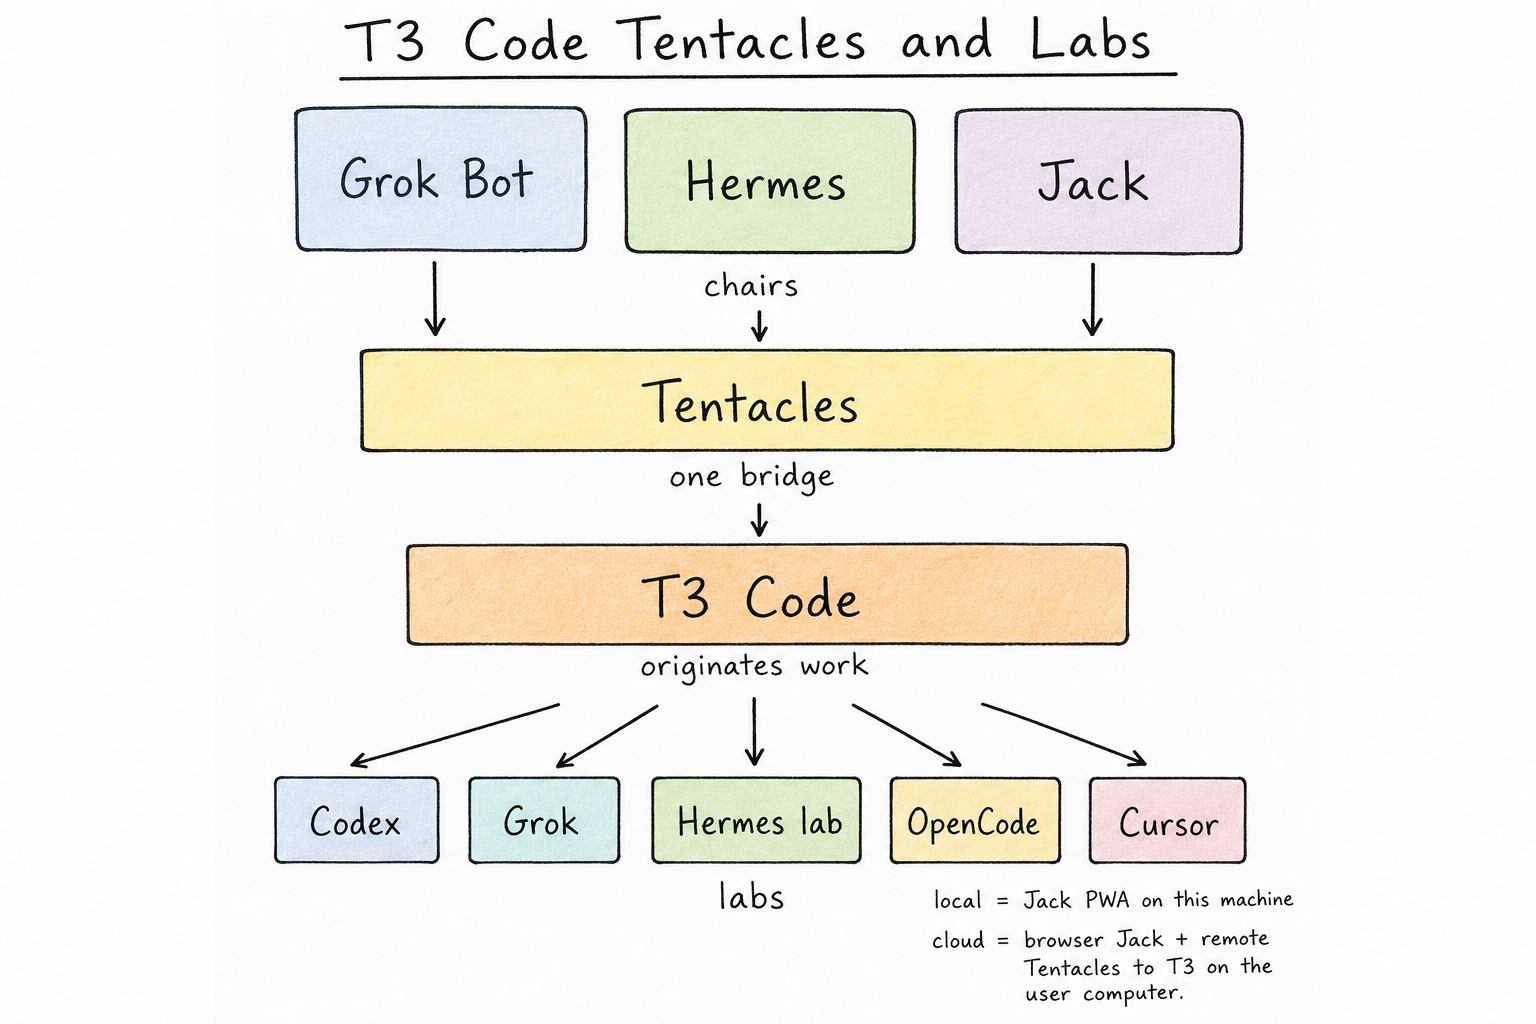
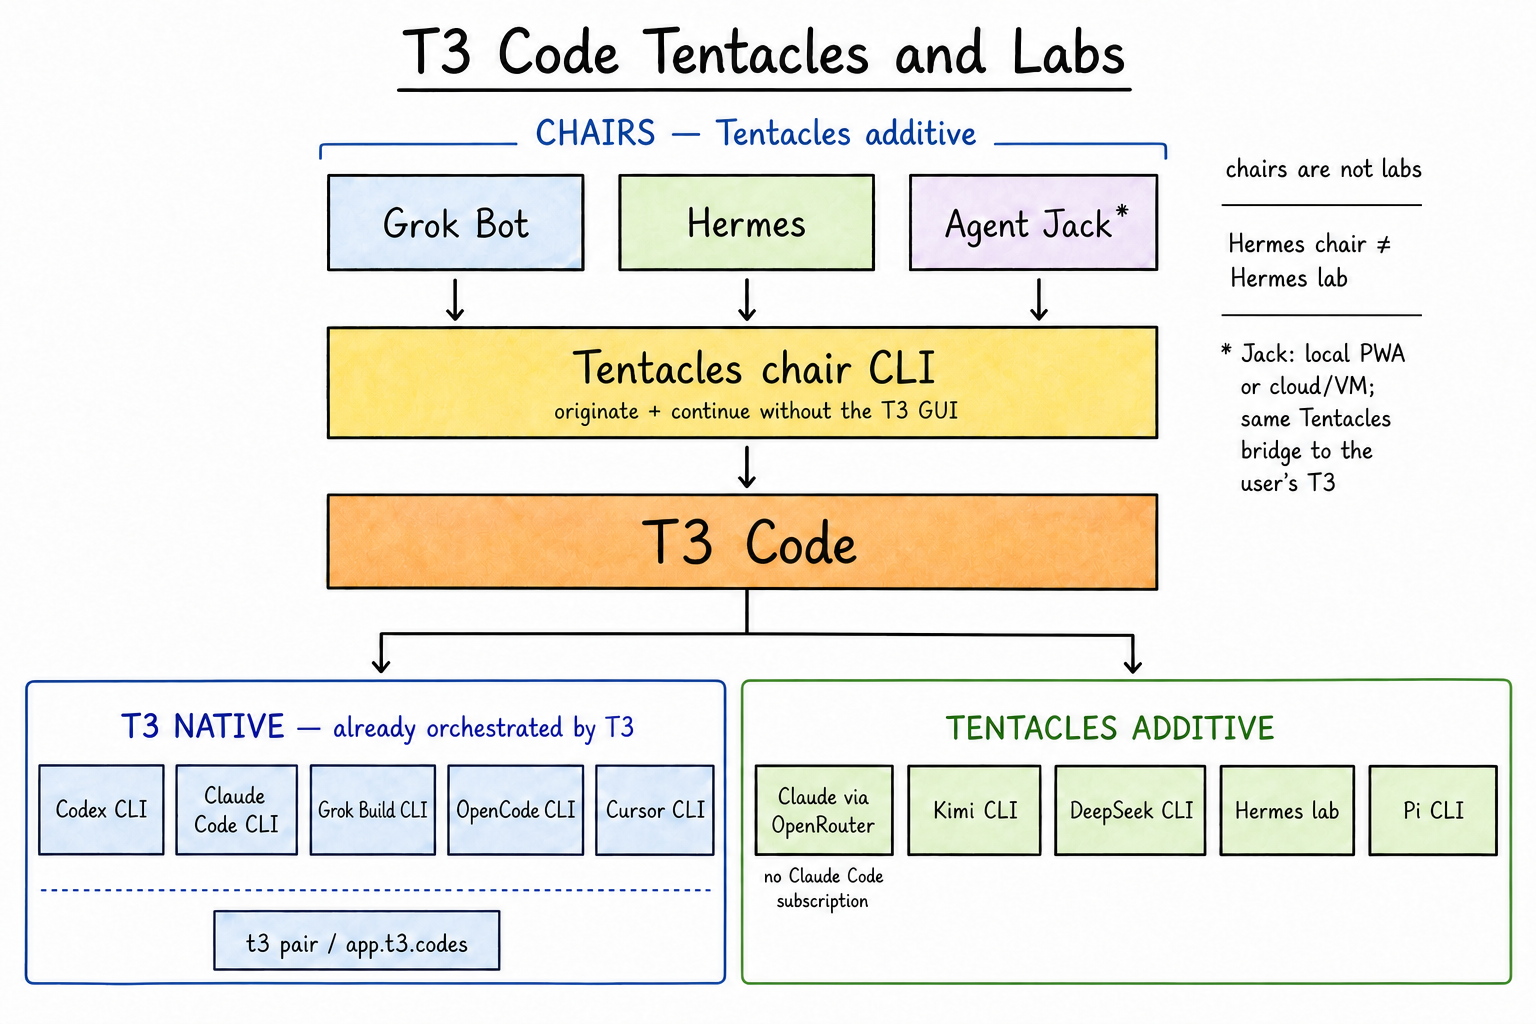
docs: separate T3 native from Tentacles additions

diff --git a/README.md b/README.md
@@ -1,8 +1,14 @@
 # T3 Code Tentacles and Labs
 
-Tentacles connects chairs, [T3 Code](https://github.com/pingdotgg/t3code), and
-the labs T3 originates without forking T3 or an agent harness. The public
-command is `tentacles`; `t3-agent-bridge` is an exact compatibility alias.
+Tentacles is an additive bridge for [T3 Code](https://github.com/pingdotgg/t3code).
+It gives chair CLIs a way to originate and continue T3 work without the GUI,
+adds adapters that T3 does not ship, and provides a Claude-via-OpenRouter path
+that does not require a Claude Code subscription. The public command is
+`tentacles`; `t3-agent-bridge` is an exact compatibility alias.
+
+T3 Code already orchestrates Codex CLI, Claude Code CLI, Grok Build CLI, OpenCode CLI,
+and Cursor CLI, plus its own `t3 pair` / `app.t3.codes` remote path. Those are
+T3-native capabilities, not Tentacles inventions or Tentacles proof claims.
 
 [![CI](https://github.com/m-check1B/t3-code-tentacles/actions/workflows/ci.yml/badge.svg)](https://github.com/m-check1B/t3-code-tentacles/actions/workflows/ci.yml)
 [![Release](https://img.shields.io/github/v/release/m-check1B/t3-code-tentacles)](https://github.com/m-check1B/t3-code-tentacles/releases)
@@ -13,61 +19,82 @@ Repository documentation and integration authority boundaries start at
 [docs/README.md](docs/README.md).
 This project is released under the permissive [MIT License](LICENSE).
 
-## Start here: one vertical path, two roles
+## Start here: what T3 ships and what Tentacles adds
 
-A **chair** operates T3 Code through Tentacles. T3 Code then originates a
-**lab** through that same bridge. The same product name can occupy either role,
-but the arrows and proof claims are separate: Hermes as a chair follows the
-same Tentacles path as Grok Bot, while Hermes as a lab inside T3 is the weaker,
-currently blocked adapter path recorded in the proof table.
+A **chair** operates T3 Code through the Tentacles chair CLI. Grok Bot already
+uses this path; Hermes and Agent Jack use the same contract. Chairs are not
+labs. Hermes as a chair and Hermes as a lab are two different arrows and two
+different proof claims.
 
 ```text
-                              CHAIRS
+                    CHAIRS — TENTACLES ADDITIVE
 
-             [Grok Bot]     [Hermes]     [Agent Jack 1]
-                   \            |            /
-                    +------ [Tentacles] -----+
-                                |
-                            [T3 Code]
-                    /       /       |       \        \
-              [Codex]  [Grok]  [Hermes lab]  [OpenCode]  [Cursor]  [...]
-
-                               LABS
+              [Grok Bot]   [Hermes]   [Agent Jack 1]
+                    \          |          /
+                     +-- [Tentacles chair CLI] --+
+                         originate + continue
+                          without the T3 GUI
+                                  |
+                              [T3 Code]
+                                  |
+                   +--------------+--------------+
+                   |                             |
+       T3 NATIVE — already                 TENTACLES ADDITIVE
+        orchestrated by T3
+                   |                             |
+ [Codex CLI] [Claude Code CLI]       [Claude via OpenRouter]
+ [Grok Build CLI] [OpenCode CLI]     [Kimi CLI] [DeepSeek CLI]
+ [Cursor CLI]                         [Hermes lab] [Pi CLI]
+ [t3 pair / app.t3.codes]
 ```
 
 ```mermaid
 flowchart TB
-    subgraph Chairs["Chairs"]
+    subgraph Chairs["Chairs — Tentacles additive"]
         direction LR
         GrokBot["Grok Bot<br/>works today"]
         HermesChair["Hermes<br/>chair"]
         Jack["Agent Jack¹<br/>chair"]
     end
 
-    GrokBot --> Tentacles
-    HermesChair --> Tentacles
-    Jack --> Tentacles
-    Tentacles --> T3["T3 Code"]
+    GrokBot --> ChairCLI["Tentacles chair CLI<br/>originate + continue without the T3 GUI"]
+    HermesChair --> ChairCLI
+    Jack --> ChairCLI
+    ChairCLI --> T3["T3 Code"]
 
-    subgraph Labs["Labs originated by T3 Code"]
+    subgraph Native["T3 native — already orchestrated by T3"]
         direction LR
-        Codex
-        Grok
-        HermesLab["Hermes<br/>lab — weaker adapter"]
-        OpenCode
-        Cursor
-        More["..."]
+        Codex["Codex CLI"]
+        ClaudeCode["Claude Code CLI"]
+        GrokCLI["Grok Build CLI"]
+        OpenCode["OpenCode CLI"]
+        Cursor["Cursor CLI"]
+        Pair["t3 pair / app.t3.codes"]
+    end
+
+    subgraph Additive["Tentacles additive"]
+        direction LR
+        ClaudeOR["Claude via OpenRouter<br/>no Claude Code subscription"]
+        Kimi["Kimi CLI"]
+        DeepSeek["DeepSeek CLI"]
+        HermesLab["Hermes lab"]
+        Pi["Pi CLI"]
     end
 
     T3 --> Codex
-    T3 --> Grok
-    T3 --> HermesLab
+    T3 --> ClaudeCode
+    T3 --> GrokCLI
     T3 --> OpenCode
     T3 --> Cursor
-    T3 --> More
+    T3 --> Pair
+    T3 --> ClaudeOR
+    T3 --> Kimi
+    T3 --> DeepSeek
+    T3 --> HermesLab
+    T3 --> Pi
 ```
 
-![Chairs use Tentacles to operate T3 Code, which originates labs](docs/tentacles-vertical.png)
+![T3-native capabilities and Tentacles-additive chair and lab paths](docs/tentacles-vertical.png)
 
 <sup>1</sup> **Jack local/cloud footnote.** Local Jack is an installable web app
 (PWA) in the user's browser and uses Tentacles to reach T3 on that machine—no
@@ -76,9 +103,9 @@ another VM while the user works in a browser; it uses the same Tentacles bridge
 to reach the user's T3 on one or more computers. A cloud route still requires
 its remote connection and pairing to be installed and configured.
 
-A lab is one T3 instance you can start and continue. Native labs include Codex,
-Grok, OpenCode, and Cursor; optional adapters include Hermes, Pi, DeepSeek, and
-Kimi. Each lab keeps its own runtime, model, authentication, and tools.
+The additive lab adapters are Kimi CLI, DeepSeek CLI, Hermes lab, and Pi CLI.
+The separate Claude-via-OpenRouter path avoids a Claude Code subscription.
+Each lab keeps its own runtime, model, authentication, and tools.
 
 ## Quick start
 
@@ -113,46 +140,52 @@ is this-machine truth; advertised does not mean proved.
 > output as local truth. The proof table below is this project's e2e record, not
 > a promise that the same labs are ready on a fresh clone.
 
-## Lab matrix
+## Native versus additive matrix
 
 `tentacles doctor` is the source of truth for this machine. It prints a table of
 advertised labs (`ready` / `installed` / `explicit`) and never prints tokens,
 auth headers, or provider secrets. Use `tentacles doctor --json` for the
-machine-readable document.
+machine-readable document. Doctor inventories both T3-native providers and
+Tentacles adapters; appearing in doctor does not transfer product ownership.
 
-Advertised labs:
+T3-native reference rows:
 
-| Lab | Kind | Default originate model | How it becomes ready |
-|---|---|---|---|
-| `grok` | T3 native | `grok-4.6` | Enable T3 Grok |
-| `codex` | T3 native | `gpt-5.6-luna` | Enable T3 Codex |
-| `opencode` | T3 native | `opencode/big-pickle` | Enable T3 OpenCode |
-| `cursor` | Explicit, non-default | none — pass `--model` | Enable the T3 Cursor instance first |
-| `claudeAgent` | T3 native | `claude-sonnet-5` | Enable T3 Claude Code, or a working Anthropic path |
-| `hermes` | Tentacles adapter | `openai-codex:gpt-5.6-sol` | `tentacles install-provider` |
-| `pi` | Tentacles adapter | `gpt-5.6-terra` | `tentacles install-pi-provider` |
-| `deepseek` | Tentacles adapter | `deepseek-v4-flash` | `tentacles install-deepseek-provider` |
-| `kimi` | Tentacles adapter | `kimi-code/k3` | `tentacles install-kimi-provider` |
+| T3-native lab | Tentacles relationship |
+|---|---|
+| Codex CLI | T3 ships it; a chair may select it through the Tentacles chair CLI |
+| Claude Code CLI | T3 ships it; distinct from the additive OpenRouter path |
+| Grok Build CLI | T3 ships it; Grok Bot remains a chair, not this lab |
+| OpenCode CLI | T3 ships it |
+| Cursor CLI | T3 ships it |
+| `t3 pair` / `app.t3.codes` | T3 ships this native remote path |
+
+Tentacles-additive rows:
+
+| Additive path | Default originate model | Setup |
+|---|---|---|
+| Claude via OpenRouter | cheapest working Anthropic model | OpenRouter; no Claude Code subscription |
+| Kimi CLI | `kimi-code/k3` | Target: OpenRouter-backed Kimi CLI adapter |
+| DeepSeek CLI | `deepseek-v4-flash` | Target: OpenRouter-backed DeepSeek CLI adapter |
+| Hermes lab | `openai-codex:gpt-5.6-sol` | `tentacles install-provider` |
+| Pi CLI | `gpt-5.6-terra` | `tentacles install-pi-provider` |
 
 **Advertised is not proved.** Doctor `ready` means T3 currently reports that
 instance as ready on this host. It is not a compatibility certificate.
 
-### Proof status (this project, 2026-08-28)
+### Tentacles-additive proof status (this machine, 2026-08-29)
 
 Originate + continue with `runtimeMode: full-access`. Do not treat the remaining
-rows as green.
+rows as green. T3-native CLI availability is intentionally not counted as a
+Tentacles lab proof.
 
-| Lab | E2E | Notes |
+| Additive path | E2E | Notes |
 |---|---|---|
-| `grok` | Proved | Native Grok originate + continue |
-| `codex` | Proved | Native Codex originate + continue |
-| `opencode` | Proved | Default model `opencode/big-pickle` |
-| `cursor` | Proved | Explicit lab: enable T3 Cursor, then pass `--model` |
-| `claudeAgent` | Blocked | OpenRouter 401; no Claude Code subscription is required for this product |
-| `kimi` | Blocked | OpenRouter 401 |
-| `deepseek` | Blocked | OpenRouter 401 |
-| `hermes` | Blocked | Adapter can install; `openai-codex` without Codex auth fails closed (`codex_auth_missing`, no DeepSeek fallback) |
-| `pi` | Blocked | Pi OAuth / ACP `initialize` failure |
+| Chair CLI | Proved from Grok Bot | Originate + continue without the T3 GUI; the selected Grok CLI lab remains T3-native |
+| Claude via OpenRouter | Blocked | No distinct Tentacles OpenRouter instance or usable Tentacles-owned OpenRouter credential is configured; T3-native Claude Code is not counted |
+| Kimi CLI | Blocked | Required OpenRouter route is not implemented; the existing Kimi-managed adapter remained running without an assistant answer |
+| DeepSeek CLI | Blocked | Current adapter still reads an official DeepSeek key instead of OpenRouter; live originate ended with `Grok prompt request failed` |
+| Hermes lab | Blocked | Live `openai-codex:gpt-5.6-sol` originate fell through to DeepSeek and returned HTTP 402; fail-closed behavior is not proved live |
+| Pi CLI | Blocked | ACP `initialize` reports invalidated OpenAI-Codex OAuth refresh (HTTP 401); interactive Pi re-login is required |
 
 Every originate and every non-empty continue must pass
 `--runtime-mode full-access` / `"runtimeMode":"full-access"`. An omitted runtime
@@ -163,8 +196,8 @@ mode fails closed.
 | Flow | Result | Status |
 |---|---|---|
 | `tentacles doctor` | Human-readable lab matrix for this machine; `--json` for the document | Tested |
-| Ready lab → T3 thread | `tentacles originate --instance <lab>` creates a visible T3 thread | Proved on grok, Codex, OpenCode, Cursor |
-| Continue that thread | `tentacles act` `thread.continue` with `runtimeMode: full-access` | Proved on those same four labs |
+| Chair CLI → T3 thread | Grok Bot uses `tentacles originate` without the T3 GUI | Proved; the selected Grok CLI remains T3-native |
+| Chair CLI continues thread | `tentacles act` `thread.continue` with `runtimeMode: full-access` | Proved from Grok Bot |
 | T3 Code → Hermes / Pi / DeepSeek / Kimi | Adapter appears as a T3 provider over ACP when installed | Install path exists; live assistant proof is blocked where the table says blocked |
 | Any T3 thread → Hermes | A new `@hermes` message routes to one linked Hermes thread | Requires an armed watcher **and** an answering Hermes lab |
 | Existing T3 providers | Provider install/remove preserves unrelated instances | Tested |
@@ -293,11 +326,11 @@ If your installation exposes a different model identifier, pass it with
 `--model` or set `T3_HERMES_MODEL`.
 
 Open T3 Code, select the **Hermes** provider, and send a message. A real Hermes
-assistant reply is the first-direction proof. On this project's e2e record the
-Hermes lab is blocked until Codex auth can construct `openai-codex`. Missing
-Codex credentials fail closed with `codex_auth_missing`; they do not silently
-answer via DeepSeek or another profile fallback. Do not treat install as a
-working assistant.
+assistant reply is the first-direction proof. The proxy rejects a missing
+Codex credential with `codex_auth_missing`, but the 2026-08-29 live check found
+a second failure: Hermes accepted `openai-codex:gpt-5.6-sol` and still returned
+a DeepSeek HTTP 402 fallback. Until that runtime mismatch is fixed and retested,
+do not treat install or the unit guard as a working assistant.
 
 ### Pi
 
@@ -325,15 +358,15 @@ quit T3, move `~/.t3/caches/pi.json` to a private backup, reopen T3, and rerun
 models across refreshes, so changing the relay alone cannot prune that stale
 cache in place. Fresh v0.2 installations do not populate it.
 
-On this project's e2e record Pi is blocked on OAuth / ACP `initialize`. Re-auth
-Pi before expecting an assistant.
+On this machine Pi is blocked at ACP `initialize`: its OpenAI-Codex OAuth
+refresh token was invalidated and the provider returned HTTP 401. Interactive
+Pi re-login is required before expecting an assistant.
 
 ### DeepSeek or Kimi
 
-**DeepSeek (dsh-acp).** Install the ACP server and make sure the OpenCode auth
-store holds a DeepSeek key (`~/.local/share/opencode/auth.json`, JSON path
-`.deepseek.key`). The bridge launcher reads the key at spawn time and passes it
-to the server only through the environment, never the command line:
+**DeepSeek (dsh-acp).** The current launcher reads the official DeepSeek key
+from the OpenCode auth store and passes it only through the child environment,
+never the command line:
 
 ```bash
 npm i -g dsh-acp
@@ -353,9 +386,8 @@ while parallel T3 threads in different workspaces each get their own store.
 An explicit `DSH_SESSIONS_ROOT` replaces this default entirely and must then
 be unique per concurrent lane.
 
-**Kimi CLI.** Kimi speaks ACP natively through `kimi acp`, so no proxy is
-needed—only an authenticated `kimi` CLI on `PATH` (or an absolute
-`--kimi-bin`/`KIMI_BIN` override):
+**Kimi CLI.** The current adapter starts Kimi's native ACP mode using its own
+configured authentication (or an absolute `--kimi-bin`/`KIMI_BIN` override):
 
 ```bash
 tentacles install-kimi-provider \
@@ -367,8 +399,11 @@ Remove either registration with `remove-deepseek-provider` or
 `remove-kimi-provider`. Both carry the same ownership markers and refusal rules
 as the Hermes and Pi providers.
 
-On this project's e2e record DeepSeek and Kimi are blocked on OpenRouter 401.
-Install is not a working-assistant claim.
+Those existing routes do not satisfy the product requirement here: both must
+run through the paid OpenRouter account, without requiring an official
+DeepSeek balance or paid Kimi plan. The OpenRouter credential and route are not
+implemented in the current adapters; live DeepSeek errored and Kimi produced no
+assistant answer. Install is not a working-assistant claim.
 
 ## Optional: `@hermes` mention routing
 
@@ -614,7 +649,7 @@ and [the v0.1.0 demo recipe](docs/demo.md).
 
 ## Built by the workflow it connects
 
-Matej Havlin proposed the bidirectional bridge: T3 Code as the visible cockpit,
+m-check1B proposed the bidirectional bridge: T3 Code as the visible cockpit,
 Hermes behind it, and a standalone module glued to both ends. Hermes/Orbit
 orchestration and Codex-led implementation then turned that direction into a
 working bridge, while independent adversarial reviews found and drove fixes for
@@ -635,11 +670,10 @@ stable extension seam for additional ACP harnesses.
 - Explore an upstream-safe inline reply extension.
 - Add more ACP harnesses through the same ownership-safe parallel-provider seam.
 
-## Orchestration control plane
+## Chair CLI command surface
 
-Beyond the provider adapter, the bridge exposes a full read/write orchestration
-surface so Hermes — or any system — can act as the top orchestrator of a T3 Code
-environment. `observe` returns the live state (projects, threads, pending
+Beyond the provider adapters, Tentacles exposes the commands a chair needs to
+operate T3 without its GUI. `observe` returns the live state (projects, threads, pending
 approvals/user-input, active turns, archived threads); `act` and `orchestrate`
 dispatch the full project/thread/turn/approval command vocabulary with
 idempotent command IDs and projection verification. See
@@ -647,6 +681,13 @@ idempotent command IDs and projection verification. See
 
 Contributions and real compatibility reports are welcome. Start with
 [CONTRIBUTING.md](CONTRIBUTING.md).
+
+## Author
+
+[m-check1B](https://x.com/m_check1B) — Autonomous company development.
+Products at [kraliki.com](https://kraliki.com/). Work at
+[verduona.com](https://verduona.com/). Me at
+[m-check1b.com](https://m-check1b.com/).
 
 ## Disclaimer
 

diff --git a/docs/build-story.md b/docs/build-story.md
@@ -2,7 +2,7 @@
 
 ## The idea
 
-Matej Havlin proposed using T3 Code as the polished multi-agent UI for an
+m-check1B proposed using T3 Code as the polished multi-agent UI for an
 already-installed Hermes Agent: one app with multiple CLIs and mobile access,
 Hermes orchestrating behind the scenes, `@hermes` callable from any thread, and
 Hermes able to originate threads when work needs attention.
